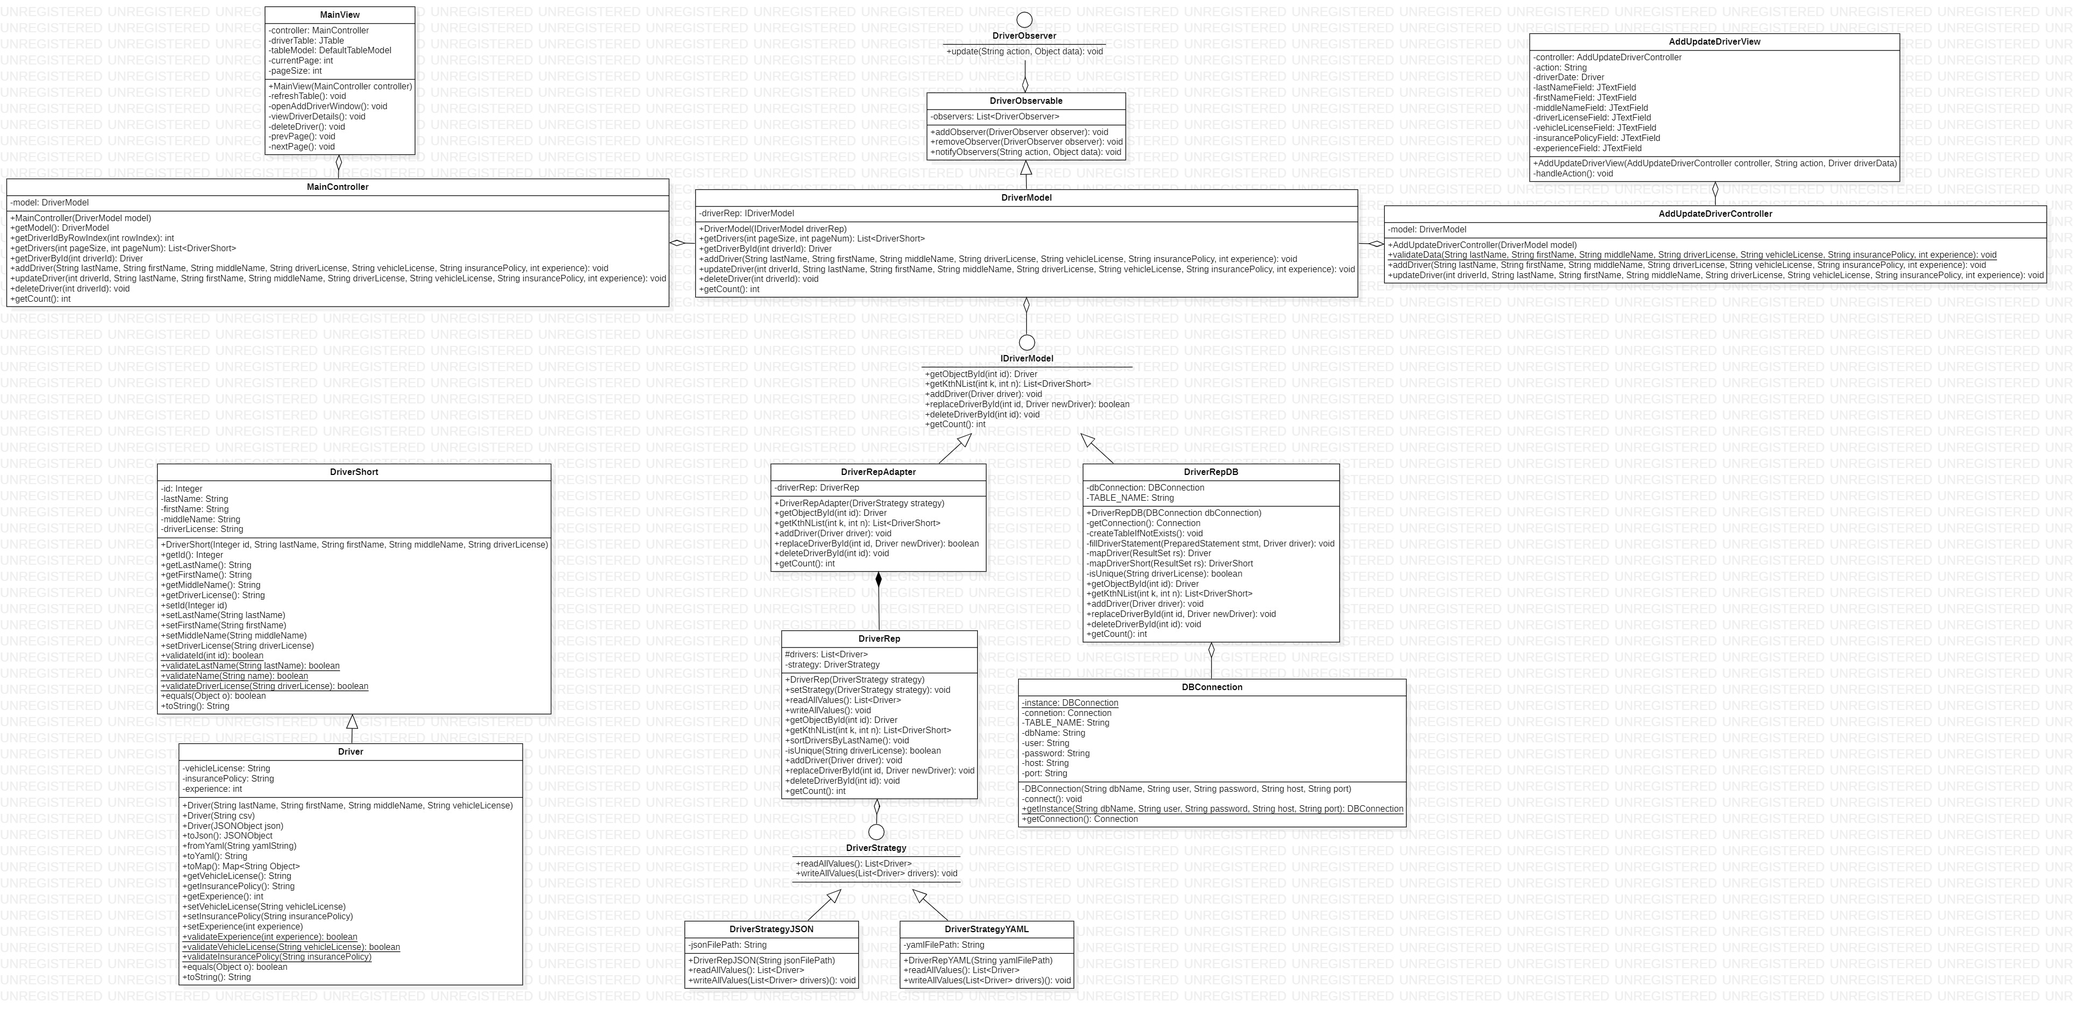
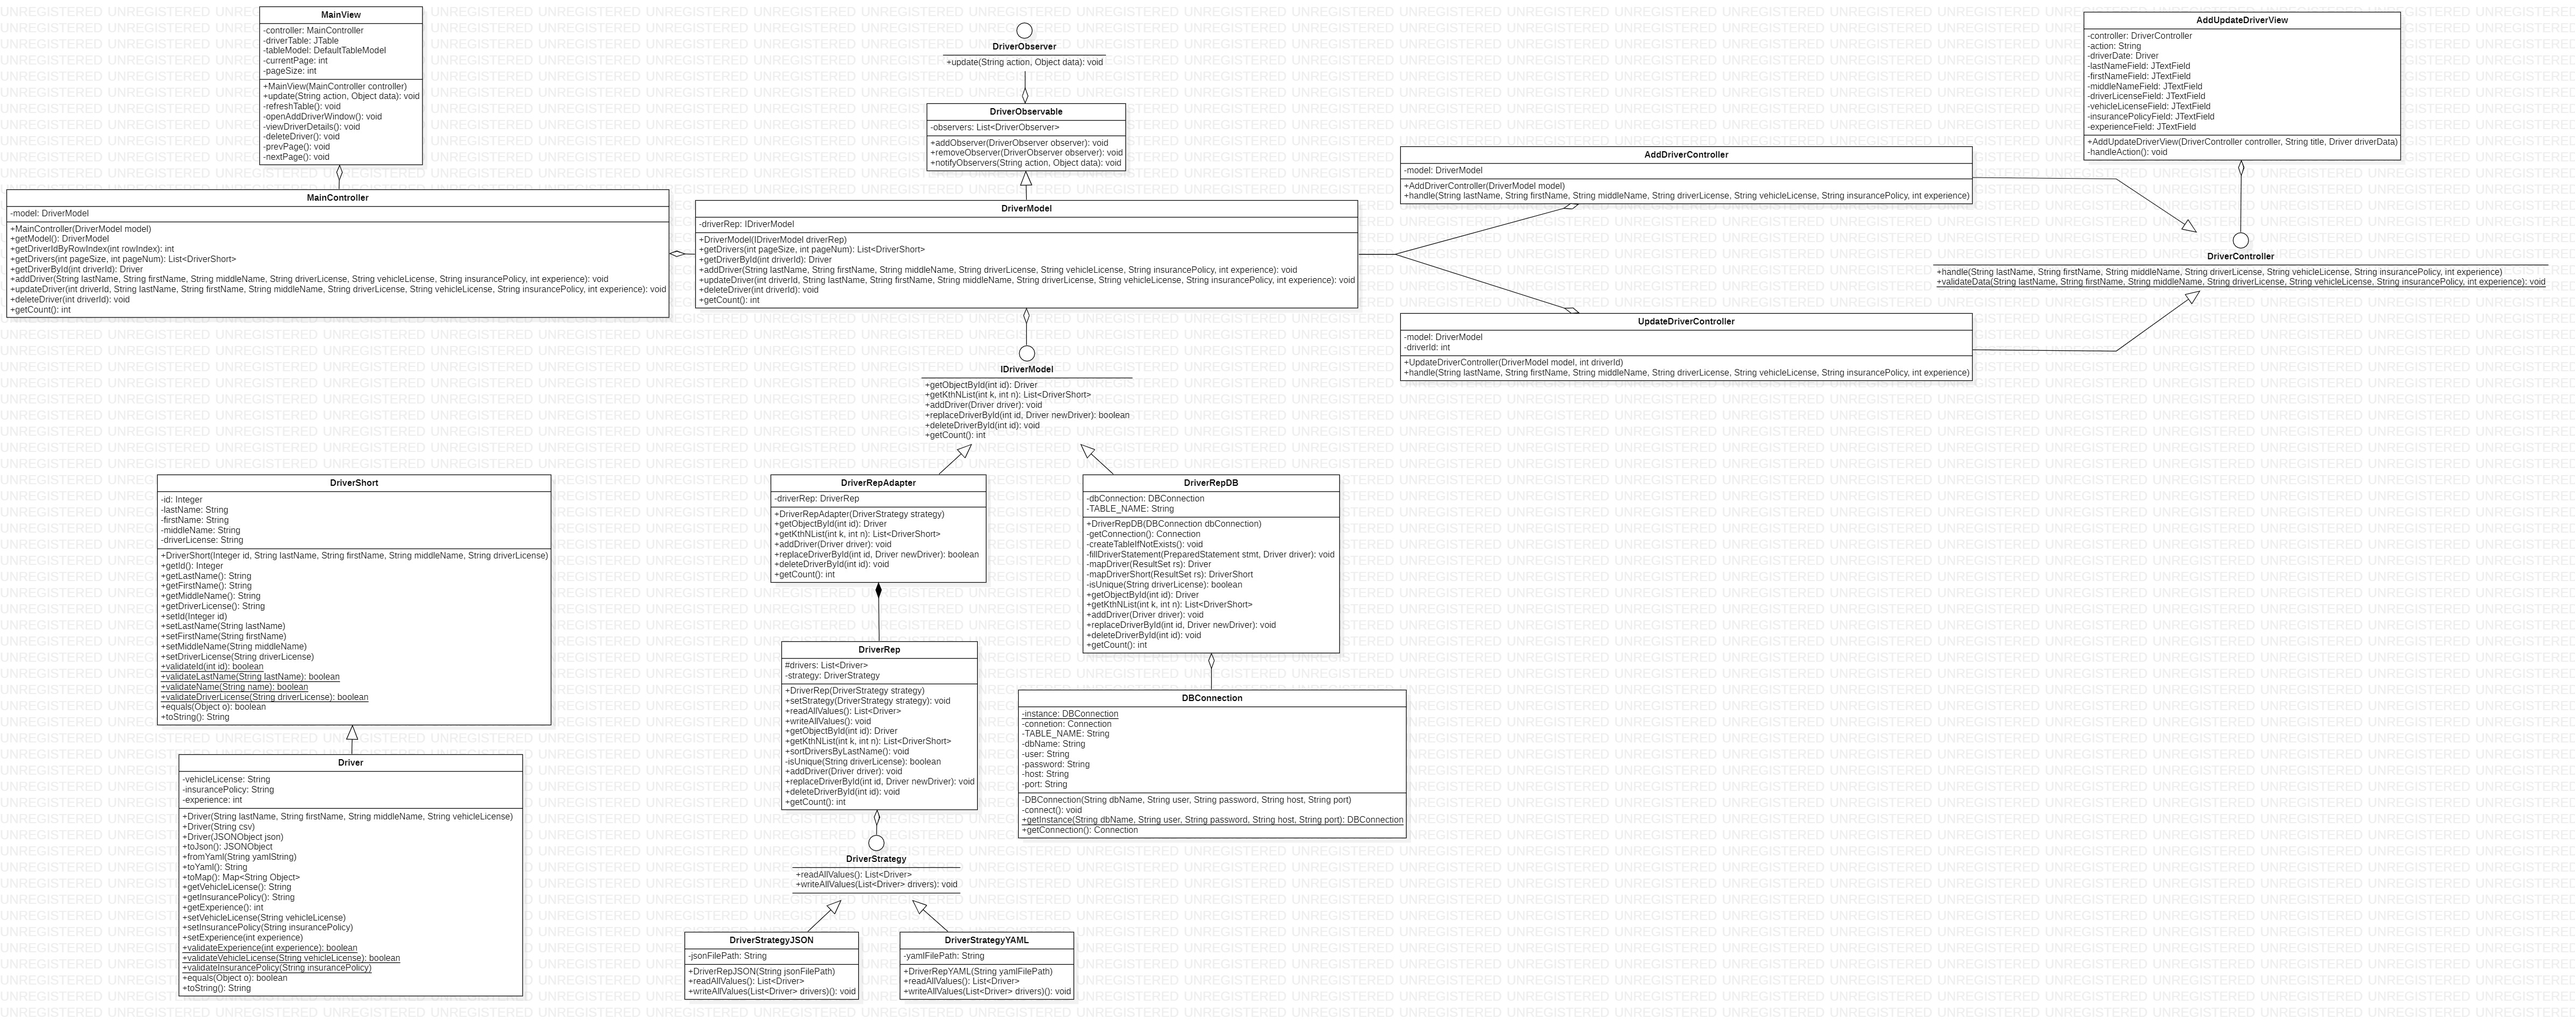
Update Lab3: Rework AddUpdateController - added (Add/Update)DriverController, fixes for new controllers

diff --git a/Project/AddUpdateDriverView.java b/Project/AddUpdateDriverView.java
@@ -2,13 +2,9 @@ package Project;
 
 import javax.swing.*;
 import java.awt.*;
-import java.awt.event.ActionEvent;
-import java.awt.event.ActionListener;
 
 public class AddUpdateDriverView extends JFrame {
-    private AddUpdateDriverController controller;
-    private String action;
-    private Driver driverData;
+    private DriverController controller;
 
     private JTextField lastNameField;
     private JTextField firstNameField;
@@ -18,12 +14,10 @@ public class AddUpdateDriverView extends JFrame {
     private JTextField insurancePolicyField;
     private JTextField experienceField;
 
-    public AddUpdateDriverView(AddUpdateDriverController controller, String action, Driver driverData) {
+    public AddUpdateDriverView(DriverController controller, String title, Driver driverData) {
         this.controller = controller;
-        this.action = action;
-        this.driverData = driverData;
 
-        setTitle(action.equals("add") ? "Добавить водителя" : "Редактировать водителя");
+        setTitle(title);
         setSize(400, 400);
         setDefaultCloseOperation(JFrame.DISPOSE_ON_CLOSE);
         setLayout(new GridLayout(8, 2, 10, 10));
@@ -57,7 +51,6 @@ public class AddUpdateDriverView extends JFrame {
         experienceField = new JTextField();
         add(experienceField);
 
-        // Заполнение данных, в случае редактирования
         if (driverData != null) {
             lastNameField.setText(driverData.getLastName());
             firstNameField.setText(driverData.getFirstName());
@@ -68,14 +61,8 @@ public class AddUpdateDriverView extends JFrame {
             experienceField.setText(String.valueOf(driverData.getExperience()));
         }
 
-        // Кнопка действия
-        JButton actionButton = new JButton(action.equals("add") ? "Добавить" : "Сохранить изменения");
-        actionButton.addActionListener(new ActionListener() {
-            @Override
-            public void actionPerformed(ActionEvent e) {
-                handleAction();
-            }
-        });
+        JButton actionButton = new JButton(title);
+        actionButton.addActionListener(e -> handleAction());
         add(actionButton);
 
         setVisible(true);
@@ -83,7 +70,6 @@ public class AddUpdateDriverView extends JFrame {
 
     private void handleAction() {
         try {
-            // Получаем данных из полей ввода
             String lastName = lastNameField.getText().trim();
             String firstName = firstNameField.getText().trim();
             String middleName = middleNameField.getText().trim();
@@ -91,18 +77,10 @@ public class AddUpdateDriverView extends JFrame {
             String vehicleLicense = vehicleLicenseField.getText().trim();
             String insurancePolicy = insurancePolicyField.getText().trim();
             int experience = Integer.parseInt(experienceField.getText().trim());
-            // Вызов определенного метода контроллера
-            if (action.equals("add")) {
-                controller.addDriver(lastName, firstName, middleName, driverLicense, vehicleLicense, insurancePolicy, experience);
-                JOptionPane.showMessageDialog(this, "Водитель успешно добавлен!", "Успех", JOptionPane.INFORMATION_MESSAGE);
-            } else if (action.equals("update")) {
-                if (driverData.getId() == null) {
-                    JOptionPane.showMessageDialog(this, "Ошибка: ID водителя отсутствует.", "Ошибка", JOptionPane.ERROR_MESSAGE);
-                    return;
-                }
-                controller.updateDriver(driverData.getId(), lastName, firstName, middleName, driverLicense, vehicleLicense, insurancePolicy, experience);
-                JOptionPane.showMessageDialog(this, "Данные водителя успешно обновлены!", "Успех", JOptionPane.INFORMATION_MESSAGE);
-            }
+
+            controller.handle(lastName, firstName, middleName, driverLicense, vehicleLicense, insurancePolicy, experience);
+
+            JOptionPane.showMessageDialog(this, "Операция выполнена успешно!", "Успех", JOptionPane.INFORMATION_MESSAGE);
             dispose();
 
         } catch (IllegalArgumentException e) {

diff --git a/Project/MainView.java b/Project/MainView.java
@@ -5,12 +5,12 @@ import javax.swing.table.DefaultTableModel;
 import java.awt.*;
 import java.util.List;
 
-public class MainView extends JFrame {
+public class MainView extends JFrame implements DriverObserver {
     private MainController controller;
     private JTable driverTable;
     private DefaultTableModel tableModel;
     private int currentPage = 1;
-    private int pageSize = 10;
+    private int pageSize = 5;
 
     public MainView(MainController controller) {
         this.controller = controller;
@@ -49,9 +49,20 @@ public class MainView extends JFrame {
         nextButton.addActionListener(e -> nextPage());
         buttonPanel.add(nextButton);
 
+        // Регистрация MainView как наблюдателя
+        controller.getModel().addObserver(this);
+
         // Загрузка данных в таблицу
         refreshTable();
         setVisible(true);
+    }
+
+    // Метод обновления таблицы
+    @Override
+    public void update(String action, Object data) {
+        if ("add".equals(action) || "update".equals(action) || "delete".equals(action)) {
+            refreshTable();
+        }
     }
 
     private void refreshTable() {
@@ -81,7 +92,7 @@ public class MainView extends JFrame {
 
     // Окно добавления водителя
     private void openAddDriverWindow() {
-        SwingUtilities.invokeLater(() -> new AddUpdateDriverView(new AddUpdateDriverController(controller.getModel()), "add", null));
+        SwingUtilities.invokeLater(() -> new AddUpdateDriverView(new AddDriverController(controller.getModel()), "Добавить", null));
     }
 
     // Получение выбранного водителя
@@ -96,7 +107,7 @@ public class MainView extends JFrame {
         Driver driver = controller.getDriverById(driverId);
 
         if (driver != null) {
-            SwingUtilities.invokeLater(() -> new AddUpdateDriverView(new AddUpdateDriverController(controller.getModel()), "update", driver));
+            SwingUtilities.invokeLater(() -> new AddUpdateDriverView(new UpdateDriverController(controller.getModel(), driverId), "Редактировать", driver));
         } else {
             JOptionPane.showMessageDialog(this, "Не удалось найти водителя", "Ошибка", JOptionPane.WARNING_MESSAGE);
         }

diff --git a/Project/DriverController.java b/Project/DriverController.java
@@ -1,0 +1,37 @@
+package Project;
+
+public interface DriverController {
+    void handle(String lastName, String firstName, String middleName, String driverLicense,
+    String vehicleLicense, String insurancePolicy, int experience) throws Exception;
+
+    public static void validateData(String lastName, String firstName, String middleName, String driverLicense,
+                                    String vehicleLicense, String insurancePolicy, int experience) throws IllegalArgumentException {
+        StringBuilder errors = new StringBuilder();
+
+        if (!DriverShort.validateLastName(lastName)) {
+            errors.append("Фамилия должна содержать только русские буквы.\n");
+        }
+        if (!DriverShort.validateName(firstName)) {
+            errors.append("Имя должно содержать только русские буквы.\n");
+        }
+        if (!DriverShort.validateName(middleName)) {
+            errors.append("Отчество должно содержать только русские буквы.\n");
+        }
+        if (!DriverShort.validateDriverLicense(driverLicense)) {
+            errors.append("Водительское удостоверение должно содержать 10 цифр.\n");
+        }
+        if (!Driver.validateVehicleLicense(vehicleLicense)) {
+            errors.append("ПТС должен иметь формат: 2 цифры, 2 буквы, 6 цифр.\n");
+        }
+        if (!Driver.validateInsurancePolicy(insurancePolicy)) {
+            errors.append("Страховой полис должен содержать 3 буквы и 10 цифр.\n");
+        }
+        if (!Driver.validateExperience(experience)) {
+            errors.append("Стаж не может быть отрицательным.\n");
+        }
+
+        if (errors.length() > 0) {
+            throw new IllegalArgumentException(errors.toString());
+        }
+    }
+}

diff --git a/Project/UpdateDriverController.java b/Project/UpdateDriverController.java
@@ -1,0 +1,20 @@
+package Project;
+
+public class UpdateDriverController implements DriverController {
+    private DriverModel model;
+    private int driverId;
+
+    public UpdateDriverController(DriverModel model, int driverId) {
+        this.model = model;
+        this.driverId = driverId;
+    }
+
+    @Override
+    public void handle(String lastName, String firstName, String middleName, String driverLicense,
+                       String vehicleLicense, String insurancePolicy, int experience) throws Exception {
+
+        DriverController.validateData(lastName, firstName, middleName, driverLicense, vehicleLicense, insurancePolicy, experience);
+
+        model.updateDriver(driverId, lastName, firstName, middleName, driverLicense, vehicleLicense, insurancePolicy, experience);
+    }
+}

diff --git a/Project/AddDriverController.java b/Project/AddDriverController.java
@@ -1,0 +1,18 @@
+package Project;
+
+public class AddDriverController implements DriverController {
+    private DriverModel model;
+
+    public AddDriverController(DriverModel model) {
+        this.model = model;
+    }
+
+    @Override
+    public void handle(String lastName, String firstName, String middleName, String driverLicense,
+                       String vehicleLicense, String insurancePolicy, int experience) throws Exception {
+                        
+        DriverController.validateData(lastName, firstName, middleName, driverLicense, vehicleLicense, insurancePolicy, experience);
+
+        model.addDriver(lastName, firstName, middleName, driverLicense, vehicleLicense, insurancePolicy, experience);
+    }
+}
